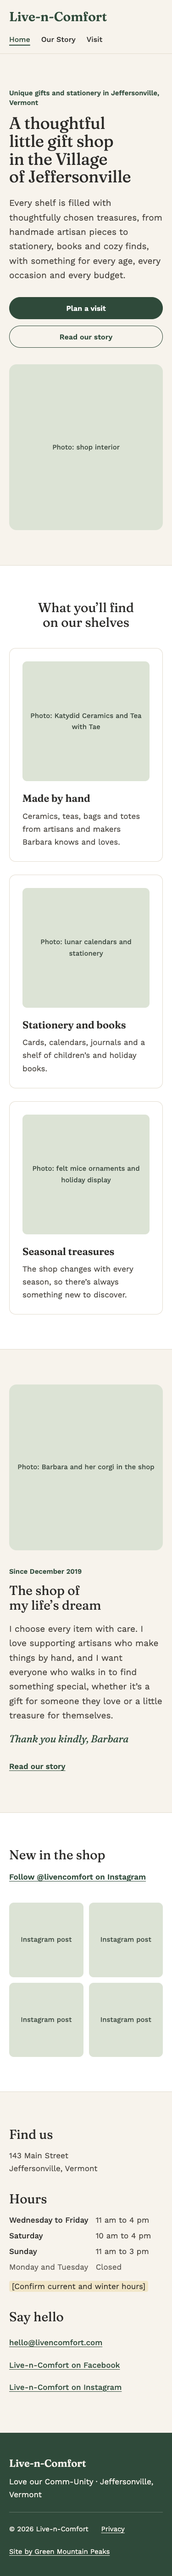
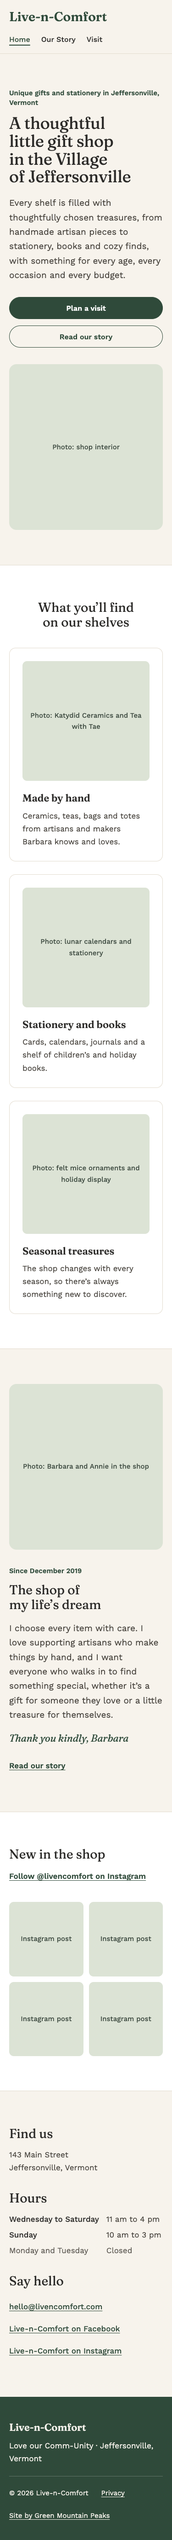
Confirmed hours, Annie, and privacy approval

diff --git a/public/index.html b/public/index.html
@@ -43,20 +43,14 @@
         "openingHoursSpecification": [
           {
             "@type": "OpeningHoursSpecification",
-            "dayOfWeek": ["https://schema.org/Wednesday", "https://schema.org/Thursday", "https://schema.org/Friday"],
+            "dayOfWeek": ["https://schema.org/Wednesday", "https://schema.org/Thursday", "https://schema.org/Friday", "https://schema.org/Saturday"],
             "opens": "11:00",
-            "closes": "16:00"
-          },
-          {
-            "@type": "OpeningHoursSpecification",
-            "dayOfWeek": "https://schema.org/Saturday",
-            "opens": "10:00",
             "closes": "16:00"
           },
           {
             "@type": "OpeningHoursSpecification",
             "dayOfWeek": "https://schema.org/Sunday",
-            "opens": "11:00",
+            "opens": "10:00",
             "closes": "15:00"
           }
         ],
@@ -144,8 +138,8 @@
 
     <section class="section" aria-labelledby="dream-heading">
       <div class="container feature">
-        <!-- PHOTO: images/home-barbara-corgi.jpg -->
-        <div class="ph ph--feature" aria-hidden="true">Photo: Barbara and her corgi in the shop</div>
+        <!-- PHOTO: images/home-barbara-corgi.jpg (Barbara and Annie). Suggested alt: "Barbara and her corgi Annie in the shop" -->
+        <div class="ph ph--feature" aria-hidden="true">Photo: Barbara and Annie in the shop</div>
         <div>
           <p class="label">Since December 2019</p>
           <h2 id="dream-heading">The shop of my life’s dream</h2>
@@ -185,12 +179,10 @@
         <div>
           <h2>Hours</h2>
           <dl class="hours">
-            <dt>Wednesday to Friday</dt><dd>11 am to 4 pm</dd>
-            <dt>Saturday</dt><dd>10 am to 4 pm</dd>
-            <dt>Sunday</dt><dd>11 am to 3 pm</dd>
+            <dt>Wednesday to Saturday</dt><dd>11 am to 4 pm</dd>
+            <dt>Sunday</dt><dd>10 am to 3 pm</dd>
             <dt class="is-closed">Monday and Tuesday</dt><dd class="is-closed">Closed</dd>
           </dl>
-          <p class="hours-note"><span class="confirm">[Confirm current and winter hours]</span></p>
         </div>
         <div>
           <h2>Say hello</h2>

diff --git a/public/our-story/index.html b/public/our-story/index.html
@@ -69,9 +69,9 @@
             <div class="ph ph--pair" aria-hidden="true">Photo: maker goods (Erin Flett bags)</div>
           </figure>
           <figure>
-            <!-- PHOTO: images/story-barbara-corgi.jpg -->
-            <div class="ph ph--pair" aria-hidden="true">Photo: Barbara and her corgi</div>
-            <figcaption><span class="confirm">[corgi’s name]</span></figcaption>
+            <!-- PHOTO: images/story-barbara-corgi.jpg (Barbara and Annie). Suggested alt: "Barbara and her corgi Annie in the shop" -->
+            <div class="ph ph--pair" aria-hidden="true">Photo: Barbara and Annie</div>
+            <figcaption>Barbara and Annie</figcaption>
           </figure>
         </div>
       </div>
@@ -81,7 +81,7 @@
       <div class="container">
         <div class="prose">
           <h2>Part of the Comm-Unity</h2>
-          <p>This little shop exists because of the people who walk through the door. Neighbors, visitors passing through on their way to the Notch, families picking out a birthday gift, and friends who stop in just to visit my corgi. We host pop ups with local makers and change the shop with every season, so there’s always something new to discover.</p>
+          <p>This little shop exists because of the people who walk through the door. Neighbors, visitors passing through on their way to the Notch, families picking out a birthday gift, and friends who stop in just to visit Annie, my corgi. We host pop ups with local makers and change the shop with every season, so there’s always something new to discover.</p>
           <figure class="quote-card">
             <blockquote>
               <p>You can feel the love as soon as you walk in.</p>

diff --git a/public/visit/index.html b/public/visit/index.html
@@ -66,12 +66,10 @@
             <section class="card" aria-labelledby="hours-heading">
               <h2 id="hours-heading">Hours</h2>
               <dl class="hours">
-                <dt>Wednesday to Friday</dt><dd>11 am to 4 pm</dd>
-                <dt>Saturday</dt><dd>10 am to 4 pm</dd>
-                <dt>Sunday</dt><dd>11 am to 3 pm</dd>
+                <dt>Wednesday to Saturday</dt><dd>11 am to 4 pm</dd>
+                <dt>Sunday</dt><dd>10 am to 3 pm</dd>
                 <dt class="is-closed">Monday and Tuesday</dt><dd class="is-closed">Closed</dd>
               </dl>
-              <p class="hours-note"><span class="confirm">[Confirm current and winter hours]</span></p>
               <p class="small-muted">Holiday and seasonal hours are posted on <a href="https://www.instagram.com/livencomfort">Instagram</a> and <a href="https://www.facebook.com/bdelaneylivencomfort">Facebook</a>.</p>
             </section>
             <section class="card" aria-labelledby="contact-heading">

diff --git a/public/privacy/index.html b/public/privacy/index.html
@@ -44,7 +44,6 @@
       <div class="container simple-page">
         <h1>Privacy</h1>
         <p class="meta">Last updated November 2026</p>
-        <p class="meta"><span class="confirm">[Barbara to review]</span></p>
         <div class="prose">
           <p>This site uses Google Analytics to count visits and see which pages people view. It uses cookies and collects information like the pages you visit, your device type and your approximate location. We use it to understand how the site is used, not to identify you. Read <a href="https://policies.google.com/privacy">Google’s privacy policy</a>.</p>
           <p>This site uses Microsoft Clarity to see how visitors use the site, such as clicks and scrolling, including recordings of visits, so we can make it easier to use. Clarity is set to mask sensitive text. Read <a href="https://privacy.microsoft.com/privacystatement">Microsoft’s privacy statement</a>.</p>

diff --git a/public/css/site.css b/public/css/site.css
@@ -611,6 +611,10 @@ address { font-style: normal; }
 @media (max-width: 420px) {
   .btn-row .btn { flex: 1 1 100%; }
   .hours { column-gap: 16px; }
+  /* The Visit card is too narrow for day and time side by side, so stack them. */
+  .card .hours { grid-template-columns: 1fr; row-gap: 2px; }
+  .card .hours dd { margin-bottom: 10px; }
+  .card .hours dd:last-child { margin-bottom: 0; }
   .insta-grid { gap: 12px; }
 }
 

diff --git a/docs/images.md b/docs/images.md
@@ -14,11 +14,11 @@ All files go in `public/images/`.
 | home-handmade.jpg | Home, "Made by hand" card | about 300 x 260 | 900 px wide, WebP | Shows Katydid Ceramics and Tea with Tae products. Barbara's photo; check the makers are happy to be shown |
 | home-stationery.jpg | Home, "Stationery and books" card | about 300 x 260 | 900 px wide, WebP | Barbara's photo of lunar calendars and stationery |
 | home-seasonal.jpg | Home, "Seasonal treasures" card | about 300 x 260 | 900 px wide, WebP | Barbara's photo of felt mice ornaments and holiday display |
-| home-barbara-corgi.jpg | Home, "The shop of my life's dream" | about 552 x 440 (full width x 360) | 1600 px wide, WebP | Barbara and her corgi in the shop. Barbara must approve her own photo |
+| home-barbara-corgi.jpg | Home, "The shop of my life's dream" | about 552 x 440 (full width x 360) | 1600 px wide, WebP | Barbara and Annie in the shop. Suggested alt text: "Barbara and her corgi Annie in the shop". Barbara must approve her own photo |
 | insta-1.jpg to insta-4.jpg | Home, "New in the shop" | square, about 275 x 275 | 900 px square, WebP | Barbara's own Instagram posts, saved as images (no embed). Use only photos she took or has rights to |
 | story-storefront.jpg | Our Story, full width | 1160 x 480 (full width x 300) | 1600 px wide, WebP | Storefront on Main Street. Barbara's photo |
 | story-makers.jpg | Our Story, left of pair | about 566 x 340 | 900 px wide, WebP | Maker goods (Erin Flett bags). Barbara's photo; check the maker is happy to be shown |
-| story-barbara-corgi.jpg | Our Story, right of pair | about 566 x 340 | 900 px wide, WebP | Barbara and her corgi. Barbara must approve |
+| story-barbara-corgi.jpg | Our Story, right of pair | about 566 x 340 | 900 px wide, WebP | Barbara and Annie. Suggested alt text: "Barbara and her corgi Annie in the shop". Barbara must approve |
 | og-image.jpg | Social share image (all pages) | 1200 x 630 | 1200 x 630 JPG, under 300 KB | Usually the storefront or hero photo, cropped. Referenced in every page's Open Graph tags but not created yet |
 
 ## How to add a photo later

diff --git a/README.md b/README.md
@@ -42,11 +42,11 @@ Set up in `public/js/site.js`. Trackers load only when the hostname is exactly `
 
 Update every one of these when the hours change:
 
-1. `public/index.html`, Hours column near the bottom of the page (the `<dl class="hours">` list and the confirm note below it)
+1. `public/index.html`, Hours column near the bottom of the page (the `<dl class="hours">` list)
 2. `public/index.html`, JSON-LD in the `<head>` (`openingHoursSpecification`, 24 hour times)
-3. `public/visit/index.html`, Hours card (the `<dl class="hours">` list and the confirm note below it)
+3. `public/visit/index.html`, Hours card (the `<dl class="hours">` list; the line below it about holiday and seasonal hours on Instagram and Facebook stays)
 
-Current hours: Wednesday to Friday 11 am to 4 pm; Saturday 10 am to 4 pm; Sunday 11 am to 3 pm; Monday and Tuesday closed.
+Current hours (confirmed by Barbara): Wednesday to Saturday 11 am to 4 pm; Sunday 10 am to 3 pm; Monday and Tuesday closed.
 
 ## Placeholders to replace
 
@@ -54,12 +54,8 @@ Text waiting for Barbara (highlighted on the page, `<span class="confirm">`):
 
 | Page | File | Placeholder |
 |---|---|---|
-| Home | `public/index.html` | [Confirm current and winter hours] |
-| Visit | `public/visit/index.html` | [Confirm current and winter hours] |
 | Our Story | `public/our-story/index.html` | [Add one or two sentences on what led Barbara to open the shop and where the name came from.] |
-| Our Story | `public/our-story/index.html` | [corgi's name] (caption under the second photo) |
 | Our Story | `public/our-story/index.html` | [ask permission to quote] (Easy Eco Tips quote) |
-| Privacy | `public/privacy/index.html` | [Barbara to review] |
 
 Photo slots (green boxes, each marked with a `<!-- PHOTO: ... -->` comment). Sizes, export settings and how to add them are in `docs/images.md`.
 
